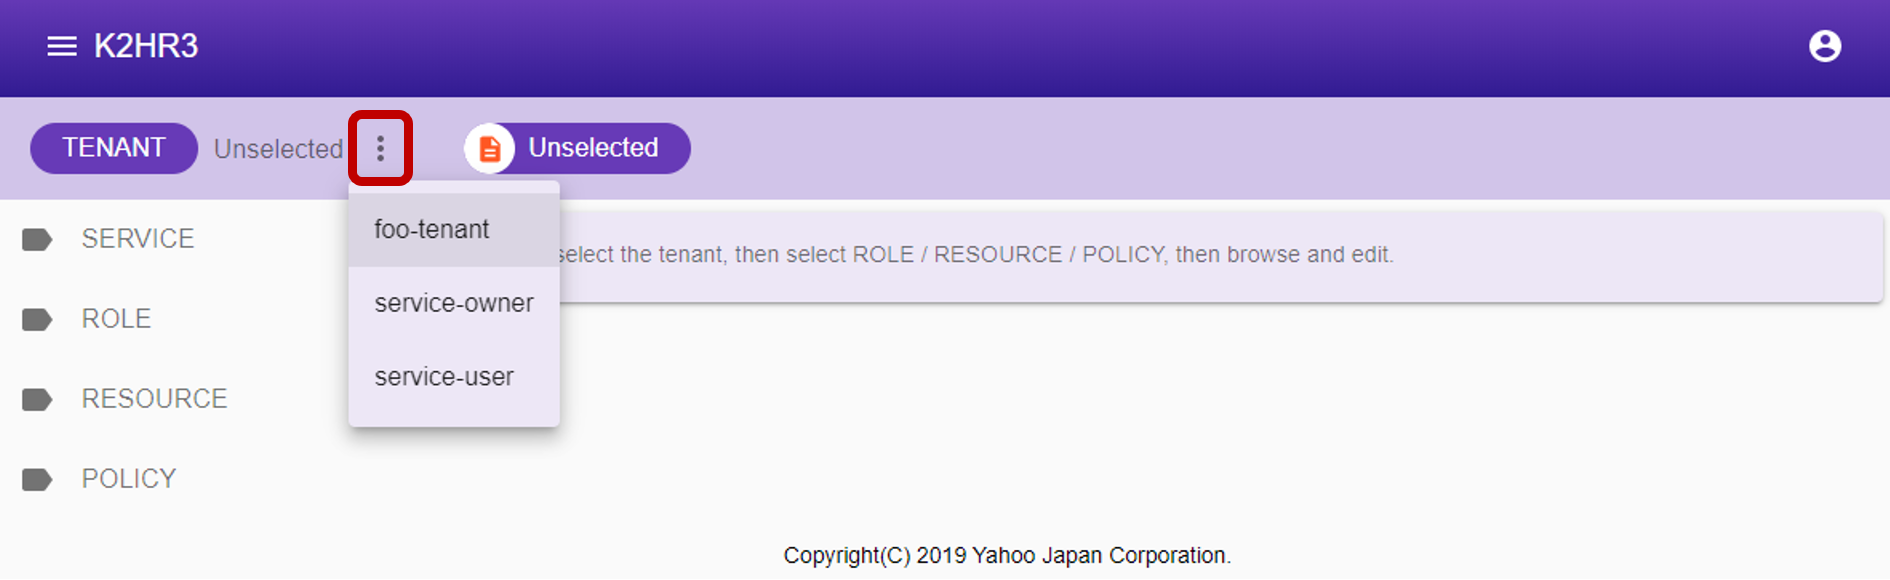
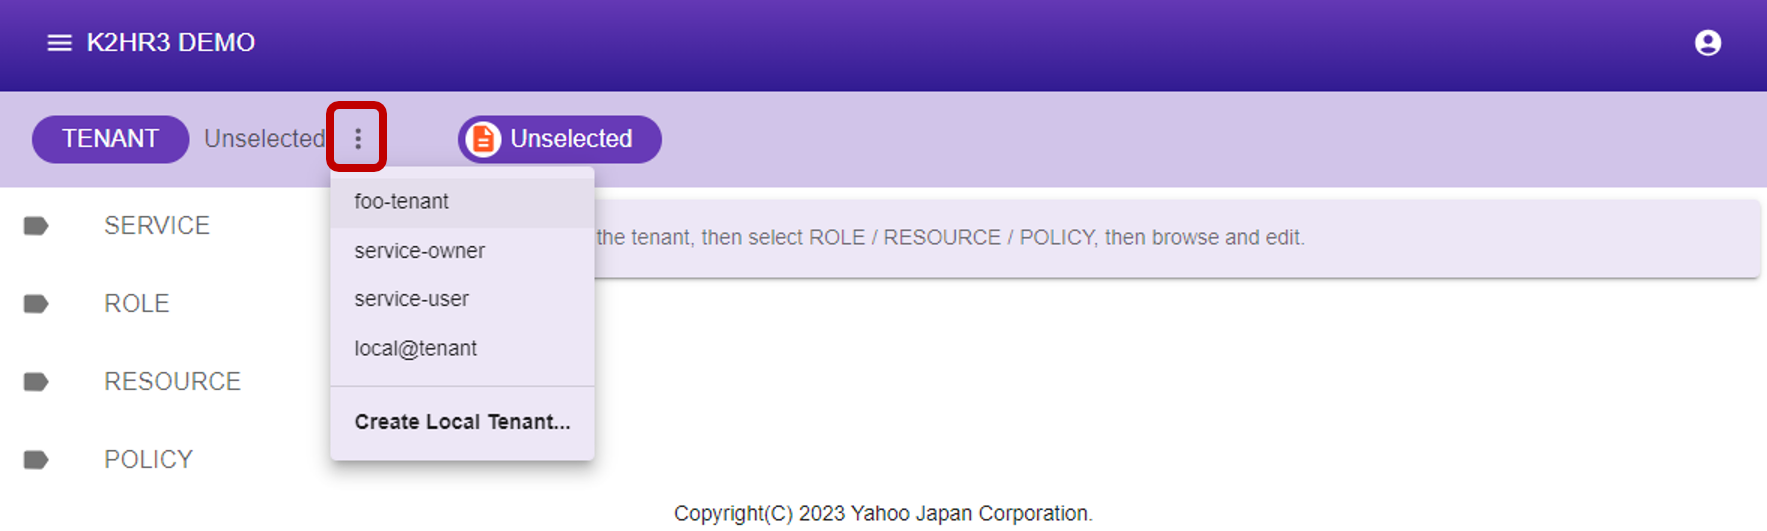
[gh-pages] Updated pages/images for support LOCAL TENANT

diff --git a/usage_app_tenant.md b/usage_app_tenant.md
@@ -19,6 +19,8 @@ This section explains how to operate **TENANT** using the **K2HR3 Web Applicatio
 ### About TENANT
 The K2HR3 system can operate in conjunction with **OpenStack** or other any **user authentication systems**.  
 When cooperated with OpenStack, the K2HR3 **TENANT** refers to the tenant(or project) to which the USER belongs in OpenStack.  
+When cooperated with Kubernetes, the K2HR3 **TENANT** refers to the Namespace to which the USER belongs in Kubernetes.  
+In addition to this, a **LOCAL TENANT** can be created and used within the K2HR3 system.  
 When using other user authentication system, it refers to the **group**(scoped group) to which the USER belongs in that authentication system.
 
 # Selection of TENANT
@@ -39,3 +41,102 @@ When **TENANT** is selected, the information of **RESOURCE**, **POLICY-RULE**(di
 
 ![K2HR3 Usage Application - Selected Tenant](images/usage_app_tenant_selected.png)
 
+## About LOCAL TENANT
+The K2HR3 system can use LOCAL TENANT other than TENANT provided by the linked IaaS(OpenStack or Kubernetes).  
+Please see below for how to create, edit and delete this LOCAL TENANT.  
+
+### Setting for using LOCAL TENANT
+Server settings for K2HR3 Web Application and K2HR3 REST API are required to use LOCAL TENANT.  
+Set the following values to `true` in each server setting(in configuration).  
+_The default is `true`, so set `false` only when not using LOCAL TENANT._  
+
+- K2HR3 Web Application（例：config/default.json）  
+```
+{
+    ...
+    'uselocaltenant': true,
+    ...
+}
+```
+
+- K2HR3 REST API（例：config/default.json）  
+```
+{
+    ...
+    'localtenants': true,
+    ...
+}
+```
+
+### Create LOCAL TENANT
+LOCAL TENANT can be freely created.  
+Select the ** Create Local Tenant ** menu on the last line of the tenant selection menu.  
+
+![K2HR3 Usage Application - Selected Creaate Local Tenant](images/usage_app_tenant_local_select.png)
+
+#### Create LOCAL TENANT Dialog
+Below is the dialog for creating a new LOCAL TENANT.  
+
+![K2HR3 Usage Application - Creaate Local Tenant Dialog](images/usage_app_tenant_local_createdialog.png)
+
+Enter the required items in this dialog and click the **OK** button to create the LOCAL TENANT.  
+Each input item is described below:  
+
+##### TENANT name
+Enter the name of the LOCAL TENANT.  
+This value cannot overlap with any other TENANT name.  
+LOCAL TENANT names must start with the ** local@ ** prefix.  
+If the ** local@ ** prefix is not specified, it will be automatically added.  
+
+##### Display name
+Specify the string when displaying LOCAL TENANT on K2HR3 Web Application.  
+This value can be omitted, and if omitted, it will be the same as the LOCAL TENANT name.  
+
+##### Description
+Enter a description for the LOCAL TENANT.  
+This value is optional.  
+
+##### TENANT User
+Specify a USER who can access the LOCAL TENANT.  
+USERs can be added/deleted using the buttons in this dialog.  
+When creating a new one, your own name is automatically added and you cannot delete yourself.  
+
+### Edit LOCAL TENANT
+This dialog can edit LOCAL TENANT information.  
+
+With LOCAL TENANT selected, click the edit button next to the TENANT name.  
+
+![K2HR3 Usage Application - Edit Local Tenant Button](images/usage_app_tenant_local_edit.png)
+
+#### Edit LOCAL TENANT Dialog
+Below is the dialog for editing a existed LOCAL TENANT.  
+
+![K2HR3 Usage Application - Edit Local Tenant Dialog](images/usage_app_tenant_local_editdialog.png)
+
+You can edit each item in this dialog.  
+You can also delete LOCAL TENANTs from this dialog.  
+
+##### TENANT name
+This field cannot be edited.  
+
+##### TENANT ID
+This field cannot be edited.  
+
+##### Display name
+Specify the string when displaying LOCAL TENANT on K2HR3 Web Application.  
+If this value is empty, it will be the same as the LOCAL TENANT name.  
+
+##### Description
+Enter a description for the LOCAL TENANT.  
+This value can be empty.  
+
+##### TENANT User
+You can add/edit/delete users who can access LOCAL TENANT.  
+If you delete your own USER name, you will not be able to access this LOCAL TENANT.  
+If you delete all USERs, the LOCAL TENANT will be completely deleted.  
+
+### Delete LOCAL TENANT
+Delete a LOCAL TENANT in the Edit LOCAL TENANT Dialog.  
+
+Start the Edit LOCAL TENANT Dialog and delete all LOCAL TENANT USERs.  
+This operation will completely remove the LOCAL TENANT.  

diff --git a/environmentsja.md b/environmentsja.md
@@ -451,6 +451,7 @@ $ sudo systemctl restart k2hr3-api.service
     "cert": "config/cert.pem",                      // サーバ証明書ファイル名
     "ca": "/etc/pki/tls/certs/ca-bundle.crt",       // ルート認証局証明書ファイル名
     "validator": "userValidateCredential",          // ユーザトークン検査用JavaScriptモジュール名
+	"uselocaltenant": true,                         // ローカルテナント利用可否
     "lang": "en",                                   // 言語ロケール
 
     "logdir": "log",                                // ログディレクトリ名

diff --git a/environments.md b/environments.md
@@ -482,6 +482,7 @@ Here are the default configuration values and the descriptions.
     "cert": "config/cert.pem",                      // The file path to the SSL Server Certificate
     "ca": "/etc/pki/tls/certs/ca-bundle.crt",       // Bundled certificates of root certificate authorities
     "validator": "userValidateCredential",          // JavaScript module name for validating user token
+	"uselocaltenant": true,                         // True if using Local Tenant
     "lang": "en",                                   // locale
 
     "logdir": "log",                                // Log directory

diff --git a/whatnew.md b/whatnew.md
@@ -14,6 +14,9 @@ next_string: Detail
 ---
 
 # What's new
+## [26 Jul 2023] K2HR3 API updated
+The source code of K2HR3 APP (Version 1.0.21) has been released on Github.com.  
+
 ## [25 Jul 2023] K2HR3 API updated
 The source code of K2HR3 API (Version 1.0.27) has been released on Github.com.  
 

diff --git a/whatnewja.md b/whatnewja.md
@@ -14,6 +14,9 @@ next_string: Detail
 ---
 
 # What's new
+## 2023年7月26日
+K2HR3 APP (Version 1.0.21) をリリースし、Github.comで公開しました。  
+
 ## 2023年7月25日
 K2HR3 API (Version 1.0.27) をリリースし、Github.comで公開しました。  
 
